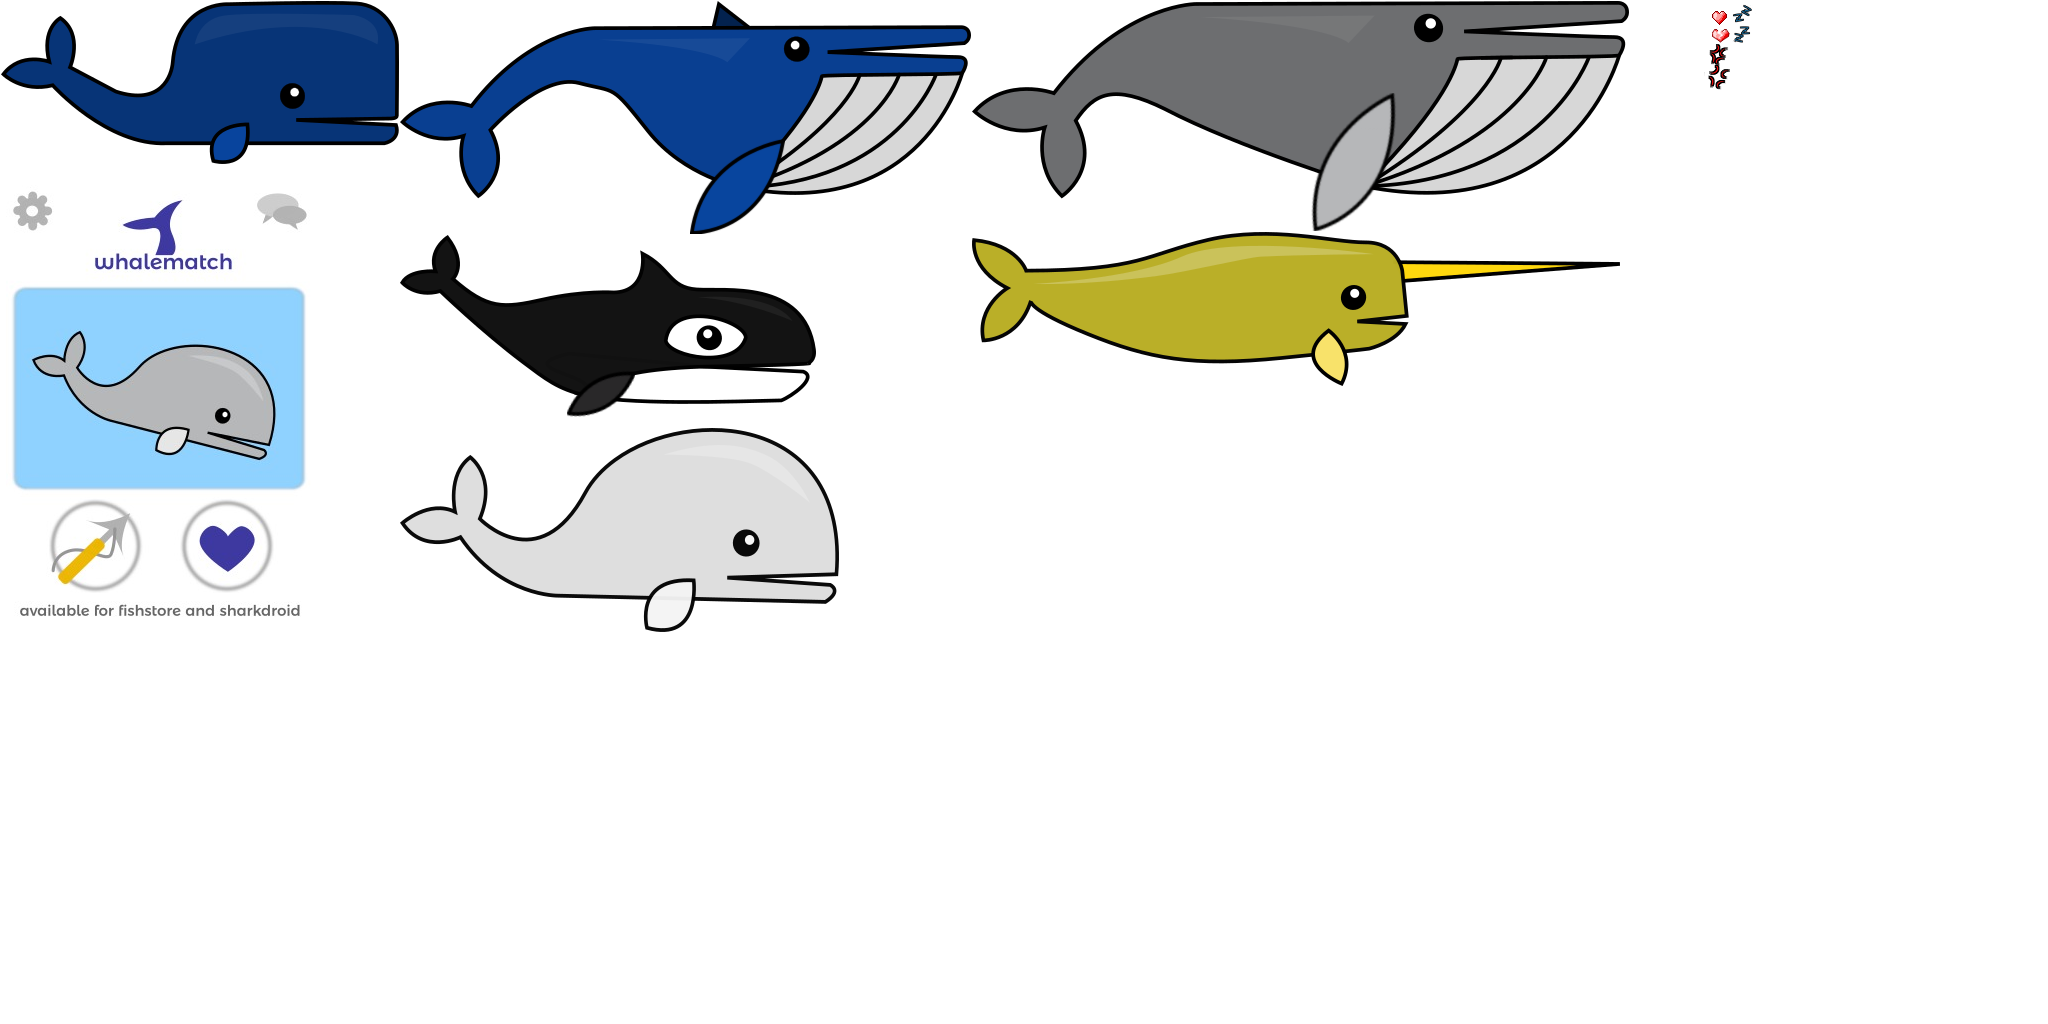
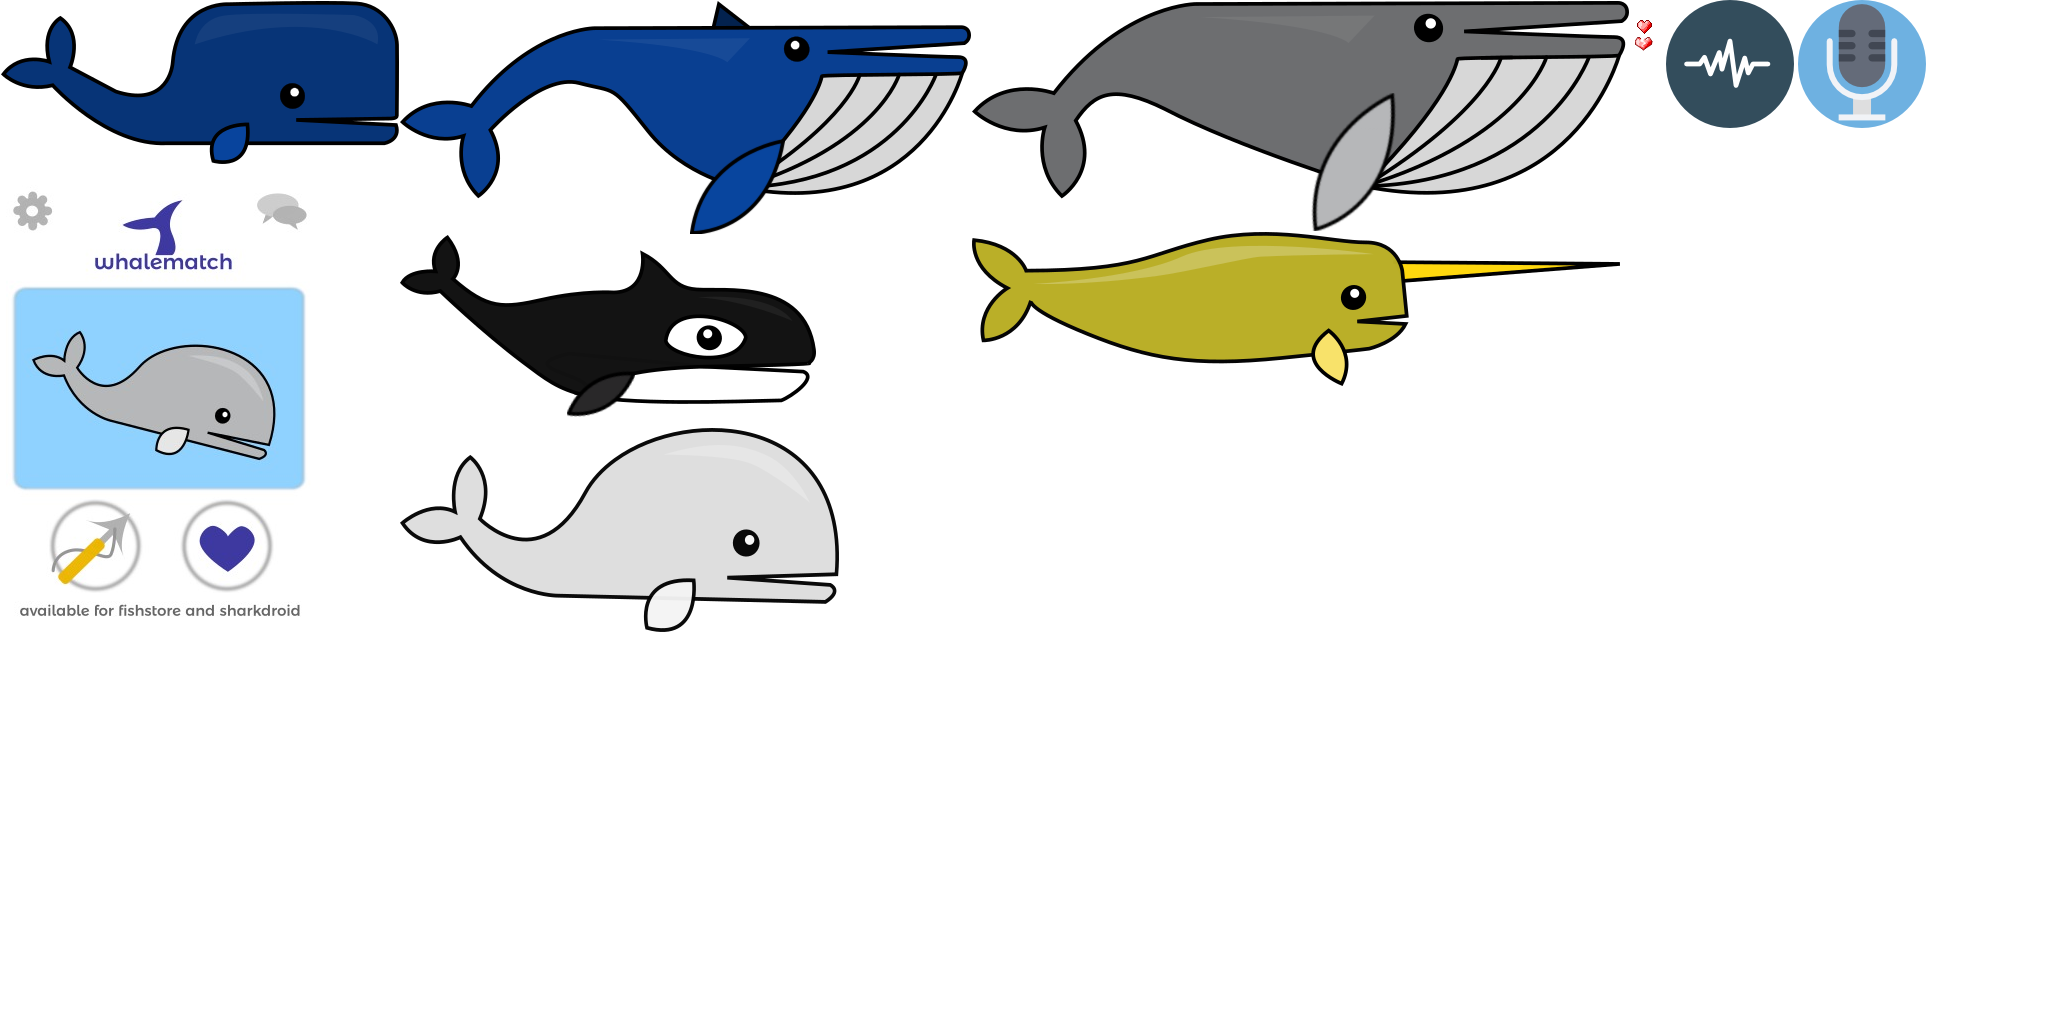
some other stuff

Changed region(s): [[0.8125, 0.0, 0.9375, 0.125]]

diff --git a/whales/models.py b/whales/models.py
@@ -8,8 +8,31 @@ import panda2d.sprites
 from pandac.PandaModules import NodePath
 from direct.interval.LerpInterval import LerpColorInterval, LerpHprScaleInterval, LerpPosHprScaleInterval, LerpPosInterval
 from direct.interval.IntervalGlobal import Sequence
-
 from pandac.PandaModules import Vec4, Vec3, Vec2
+
+import whales.config
+
+class Mic(panda2d.sprites.AnimatedSprite):
+	bs = 0.5
+	def __init__(self, atlas, node, w):
+		panda2d.sprites.AnimatedSprite.__init__(self, atlas, node, 'screen')
+		self.setSprite("/ic/mic")
+		self.w = w
+		t,b, w, h = self.rect
+		self.setPos(
+			self.w.tilemap.pw-w/4, self.getY(), 0+h/4.0
+		)
+		self.setScale(self.bs)
+
+	def show(self, tf):
+		scale = max(self.bs*tf[1]/whales.config.VOLUME/1.5, self.bs/4.0)
+		self.setScale(scale)
+		v = tf[0]/whales.config.MAX_FREQ
+		ec = (v,v,v,1)#(r, g, b, 1.0)
+		#print(scale,ec)
+		#dt = globalClock.getDt()
+		self.setColorScale(ec)
+		#self.colorScaleInterval(dt, ec, self.getColorScale()).start()
 
 class Screen(panda2d.sprites.AnimatedSprite):
 	def __init__(self, atlas, node, real=True):
@@ -18,15 +41,28 @@ class Screen(panda2d.sprites.AnimatedSprite):
 		self.setX(300)
 		self.setZ(240)
 
+class Heart(panda2d.sprites.AnimatedSprite):
+	OFF = "/ic/heart_off"
+	ON = "/ic/heart_on"
+	def __init__(self, atlas, node, on=True):
+		panda2d.sprites.AnimatedSprite.__init__(self, atlas, node )
+		self.turn(on)
+
+	def turn(self, on=True):
+		icon = on and self.ON or self.OFF
+		self.setSprite(icon)
+
 
 WHALES = ('0', '1', '2', '3', '4', '5' )
-S_WHALE = ('0', '1', '2', '3', '4', '5' )
+S_WHALE = ('0.mp3', '1.mp3', '2.mp3', '3.mp3', '4.mp3', '5.mp3' ) #TODO this shoudld be the sound files
 class Whale(panda2d.sprites.AnimatedSprite):
 	SWIMMING = 0
 	DEAD = 100
 	state = 0
 	sp = 15
 	love = 0
+	heart = None
+	heart_bs = 3
 	def __init__(self, atlas, node, world, wi = -11):
 		panda2d.sprites.AnimatedSprite.__init__(self, atlas, node, 'whale' )
 		if wi < 0 :
@@ -43,11 +79,27 @@ class Whale(panda2d.sprites.AnimatedSprite):
 		self._tbeat = taskMgr.doMethodLater(1, self.beat, 'bbeat')
 		self.startStroll()
 
-	def showLove(self):
-		t = "i like that"
+	def hear(self, i, v):
+		on = i == self.i
+		if on :
+			self.showLove(v)
+
+		else:
+			self.showLove(-1)
+		self.heart.turn(on)
+
+	def showLove(self, v):
+		self.love += v/100.0
+		t = "i like that "+str((self.i, self.love))
 		self.debug(t)
-		self.love += 1
-		print(t)
+		if not self.heart:
+			self.heart = Heart(self.atlas, self)
+			self.heart.setScale(self.heart_bs)
+			self.heart.setPos(100, -1, 100)
+			print(t)
+		else:
+			self.heart.setScale(self.heart_bs+self.love)
+
 		#TODO ryo if you want you can do this, when this method gets called add a heart icon,
 		# you can use the same code and assets from "m"
 
@@ -109,7 +161,7 @@ class Whale(panda2d.sprites.AnimatedSprite):
 			LerpColorInterval(self, 2, (0, 0, 0, 1))
 		).start()
 
-
+### code here and below is just from another project, here for reference
 FOODS = ('rf_0_on', 'rf_1_on', 'rf_2_on', )
 class Food (panda2d.sprites.AnimatedSprite):
 	def __init__(self, atlas, node, real=True):
@@ -249,11 +301,7 @@ class M(panda2d.sprites.AnimatedSprite):#NodePath):#panda2d.sprites.AnimatedSpri
 		self.DOWN = down
 		if down: self.setTask()
 
-class Heart(panda2d.sprites.AnimatedSprite):
-	def __init__(self, atlas, node, broken=False):
-		panda2d.sprites.AnimatedSprite.__init__(self, atlas, node )
-		self.B = self.atlas.animIndex(broken and "h2" or "h1")
-		self.play(self.B)
+
 	
 class B(panda2d.sprites.AnimatedSprite):#NodePath):
 	sp = 15

diff --git a/whales/main.py b/whales/main.py
@@ -12,9 +12,13 @@
 	Thanks to:
 		ThomasEgi @ irc.freenode.net/#panda3d
 		StackOverflow :)
-		Tileset : http://manuxd789.deviantart.com/art/Free-use-Underwater-Tiles-RPG-Maker-XP-477146613
+		Tileset :
+			http://manuxd789.deviantart.com/art/Free-use-Underwater-Tiles-RPG-Maker-XP-477146613
 		Sounds:
 			http://soundbible.com/tags-whale.html
+		Icons :
+			Icon made by http://www.flaticon.com/authors/prosymbols from www.flaticon.com
+			http://www.flaticon.com/authors/flat-icons
 
 	Yes this is full of dirty hacks :)
 
@@ -37,9 +41,11 @@ from whales.config import VOLUME, MAX_FREQ
 # DONE get fft level or something
 # TODO sprites
 # TODO sound for whales (wanna do this ryo?)
+# TODO whale die
 # DONE do something with the fft
 # TODO do the world
 # TODO do the scenes
+
 #requires pyaudio
 #requires numpy
 #can require alsaaudio
@@ -126,15 +132,16 @@ class Mundo(panda2d.world.World):
 			self.startPlaying()
 		elif self.state == self.S_GAME:
 			cwhales = len(whales.models.WHALES)
+			i = int(tf[0] / MAX_FREQ * cwhales) % cwhales
+			v = tf[1]/VOLUME
 			for w in self.whales:
-				i = int(tf[0] / MAX_FREQ * cwhales) % cwhales
+				w.hear(i, v)
 				#sys.stdout.write(str(i))#print(i)
-				if (i == w.i) :
-					w.showLove()
 
 
 	def update(self, task):
 		tf = mic.tell()
+		self.mic.show(tf)
 		#sys.stdout.write("\rFreq= %f Hz Vol= %f." % tf)
 		#sys.stdout.write(".")
 		if tf[1] > VOLUME:
@@ -207,6 +214,7 @@ class Mundo(panda2d.world.World):
 		#print "pixel density", self.pd
 		self.screen = whales.models.Screen(self.atlas, self.node)
 		self.screen.setY(self.floor_y+1)
+		self.mic = whales.models.Mic(self.atlas, self.node, self)
 		#self.screen.debug("Hello, please configure the volume, then do like a whale")
 		return
 		lob = self.tilemap.olayers['pjs']

diff --git a/whales/mic_pyaudio.py b/whales/mic_pyaudio.py
@@ -66,11 +66,11 @@ class Reader(StopThread):
 			f = np.linspace(0, RATE/2.0, len(p)) #freqs?
 			pmi = len(p) - 1 - p[::-1].argmax() #to get the last big freq (not 0)
 			pm = p[pmi]
-			if(f[pmi]< 0.001): 	return (-1, -1)
+			if(f[pmi]< 0.001) or np.isinf(pm): return (-1, -1)
 			return (f[pmi], pm)
 		except Exception, e:
 			if isinstance(e, KeyboardInterrupt): raise e
-			#print("error reading audio", e)
+			print("error reading audio", e)
 			return (-1, -1)
 
 

diff --git a/panda2d/sprites.py b/panda2d/sprites.py
@@ -248,8 +248,12 @@ class Atlas():
 			dd, parent = dirs.pop(0)
 			name = dd.name
 			#print (dd, parent, name)
+			#path = parent+name+'/'
 			#path = parent+'/'+name
-			path = parent+name
+			path = parent + name # TODO this sucks but thats how dfEditor works
+			#path = parent
+			#if parent: path += '/'
+			#path += name
 			if hasattr(dd, 'dir'):#if it has more pseudo directories (categories) in it, it add them to the "queue"
 				#print (dd)
 				dirs.extend(

diff --git a/run_m.py b/run_m.py
@@ -1,6 +1,6 @@
 # -*- coding: utf-8 -*-
 #Copyright 2015 Jerónimo Barraco Mármol - moongate.com.ar GPLv3 moongate.com.ar
-from whales.main import runWorld
+from m.main import runWorld
 runWorld()
 
 

diff --git a/m/main.py b/m/main.py
@@ -129,4 +129,4 @@ class Mundo(panda2d.world.World):
 
 def runWorld():
 	world = Mundo()
-	run()
+	world.run()

diff --git a/whales/config.py b/whales/config.py
@@ -1,2 +1,2 @@
 VOLUME = 130
-MAX_FREQ = 600.0
+MAX_FREQ = 800.0
